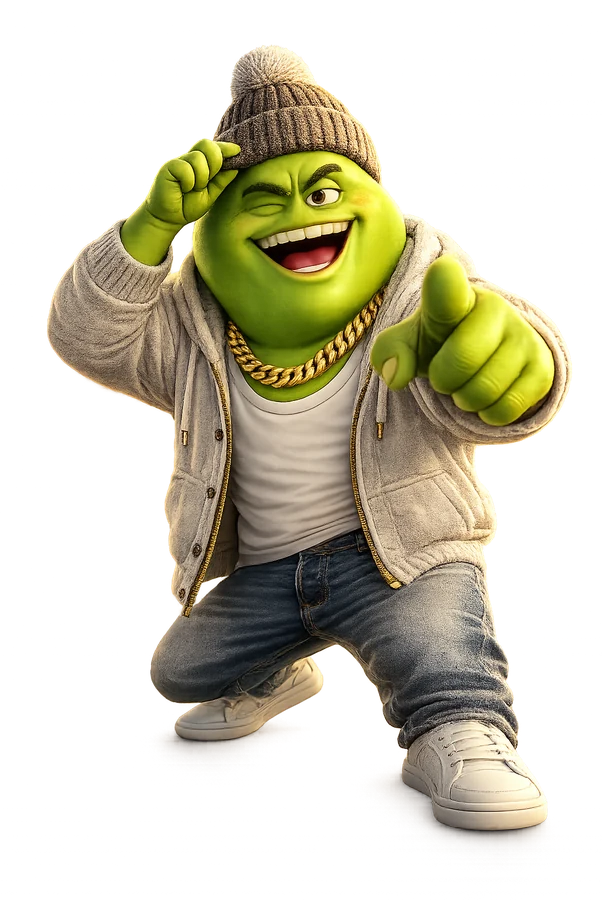
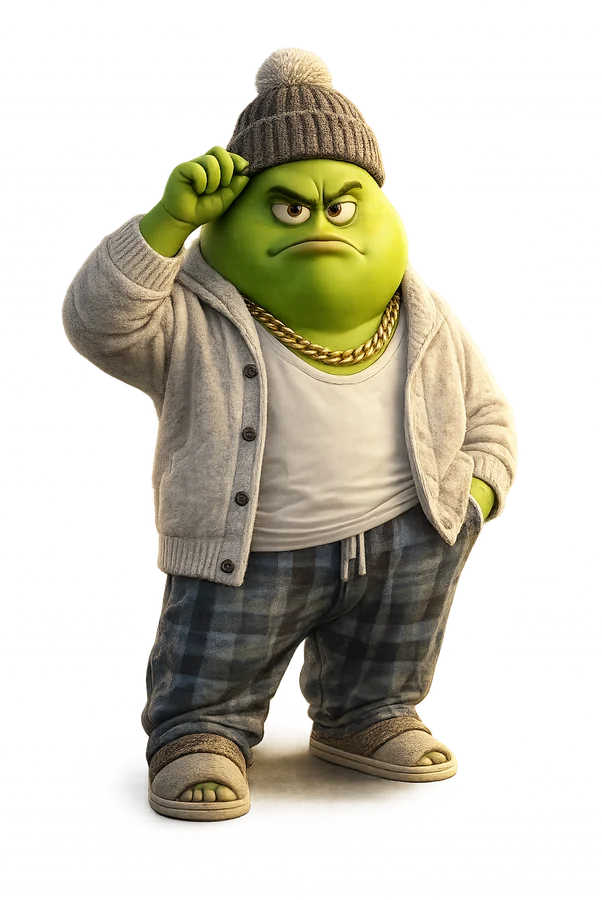
feat(ضربهزن): ده ظاهرِ کاراکتر با قوسِ «از فقر تا ثروت» — هر ۵ لول یکی
═══════════════════════════════════════════════════════════════════════════
خواستهٔ مالک
═══════════════════════════════════════════════════════════════════════════

«۵ تا عکس و ژست عکاسی دیگه از کاراکتر ضربه زن بساز که هر ۵ لول ازین به
بعد شخصیت تغییر ژست و لباس عوض شه. کاراکتر اول فقیر باشه بعد کم کم
کلاس کاری و لباساش بهتر شن».

═══════════════════════════════════════════════════════════════════════════
پنج ژستِ جدید
═══════════════════════════════════════════════════════════════════════════

با «تولید عکس به عکس» ساخته شدند: خودِ اسکینهای موجود بهعنوان مرجع
داده شدند تا هویتِ کاراکتر (سرِ گلابیشکل، ابروهای پرپشت، چشمهای ریز،
تناسبِ بدن، سبزِ برند) موبهمو حفظ شود و فقط لباس و ژست عوض شود.

  • کارگرِ ساختمانی — اورکالِ لکهدار، کلاه ایمنی، عرقِ پیشانی
  • پیراهن و جلیقه — دستبهسینه، اولین نشانهٔ نظم
  • بمبرِ برند — عینکِ روی پیشانی، ساعتِ طلا، ژستِ «پول»
  • کتِ مخملیِ زرشکی — دستمالِ جیبی، ساعتِ گران
  • تاکسیدوی طلایی — دستهای باز، انگشترِ الماس، پیروزی

⚠ یک تلاش دور ریخته شد: نسخهٔ اولِ «پیک موتوری» چهرهٔ کاراکتر را عوض
   کرده بود (چشمهای گرد و لبخندِ دوستانه بهجای نگاهِ جدی) و متنِ
   ناخواسته روی پیشبند نوشته بود. با دادنِ **دو** مرجع (فقیرترین و
   ثروتمندترین) و تأکیدِ صریح بر حفظِ اجزای چهره، درست شد.

═══════════════════════════════════════════════════════════════════════════
برشِ پسزمینه — سه بار تکرار تا درست شد
═══════════════════════════════════════════════════════════════════════════

تصاویرِ تولیدی پسزمینهٔ سفیدِ مات دارند ولی اسکینهای موجود شفافاند.
[…]

diff --git a/mobile/test/tap_game_test.dart b/mobile/test/tap_game_test.dart
@@ -67,74 +67,97 @@ void main() {
   });
 
   group('skins', () {
-    test('the character changes ON level 10, 20, 30, 40', () {
-      // Levels 1-9 are the first character; arriving AT level 10 already
-      // shows the second. A previous version changed one level late.
-      for (var lv = 1; lv <= 9; lv++) {
-        expect(config.skinForLevel(lv), config.skins[0], reason: 'level $lv');
-      }
-      for (var lv = 10; lv <= 19; lv++) {
-        expect(config.skinForLevel(lv), config.skins[1], reason: 'level $lv');
-      }
-      for (var lv = 20; lv <= 29; lv++) {
-        expect(config.skinForLevel(lv), config.skins[2], reason: 'level $lv');
-      }
-      for (var lv = 30; lv <= 39; lv++) {
-        expect(config.skinForLevel(lv), config.skins[3], reason: 'level $lv');
-      }
-      for (var lv = 40; lv <= 50; lv++) {
-        expect(config.skinForLevel(lv), config.skins[4], reason: 'level $lv');
+    // ⚠ این تستها عمداً هیچ عددی را هاردکد نمیکنند.
+    //
+    // نسخهٔ قبلی «۱۰»، «۴ تغییر» و «۵ اسکین» را مستقیم نوشته بود. وقتی
+    // مالک خواست ظاهر هر ۵ لول عوض شود (و ۱۰ ظاهر شد)، پنج تست شکستند
+    // بدون اینکه هیچ باگی وجود داشته باشد — یعنی تستها داشتند یک
+    // **تصمیمِ محصول** را قفل میکردند، نه یک **قاعده** را.
+    //
+    // حالا هر ادعا از `config.levelsPerSkin` و `config.skins.length`
+    // مشتق میشود. اگر فردا هر ۳ لول شد، همینها بدون تغییر سبز میمانند
+    // و فقط اگر منطق واقعاً بشکند قرمز میشوند.
+
+    test('ظاهر دقیقاً روی مضربهای levelsPerSkin عوض میشود', () {
+      final n = config.levelsPerSkin;
+      for (var lv = 1; lv <= config.levelCount; lv++) {
+        final expected =
+            (lv ~/ n).clamp(0, config.skins.length - 1);
+        expect(config.skinIndexForLevel(lv), expected, reason: 'لول $lv');
       }
     });
 
-    test('exactly four changes across the whole game', () {
+    test('لولهای قبل از اولین مرز، ظاهر اول را دارند', () {
+      for (var lv = 1; lv < config.levelsPerSkin; lv++) {
+        expect(config.skinForLevel(lv), config.skins[0], reason: 'لول $lv');
+      }
+      // و دقیقاً روی مرز عوض میشود، نه یکی دیرتر.
+      expect(config.skinForLevel(config.levelsPerSkin), config.skins[1]);
+    });
+
+    test('تعداد تغییرها با تعداد ظاهرهای قابلدسترس میخواند', () {
       var changes = 0;
       for (var lv = 2; lv <= config.levelCount; lv++) {
         if (config.skinIndexForLevel(lv) != config.skinIndexForLevel(lv - 1)) {
           changes++;
           expect(lv % config.levelsPerSkin, 0,
-              reason: 'a change must land on a multiple of 10, got $lv');
+              reason: 'تغییر باید روی مضربِ ${config.levelsPerSkin} بیفتد، '
+                  'ولی روی $lv افتاد');
         }
       }
-      expect(changes, 4);
+      final reachable =
+          (config.levelCount ~/ config.levelsPerSkin) + 1;
+      final expected =
+          (reachable > config.skins.length ? config.skins.length : reachable) - 1;
+      expect(changes, expected);
     });
 
-    test('the skin index never goes backwards', () {
+    test('اندیس ظاهر هرگز عقب نمیرود', () {
       for (var lv = 2; lv <= config.levelCount; lv++) {
         expect(config.skinIndexForLevel(lv),
             greaterThanOrEqualTo(config.skinIndexForLevel(lv - 1)));
       }
     });
 
-    test('all five skins are reachable within 50 levels', () {
+    test('همهٔ ظاهرها در طول بازی دیده میشوند', () {
+      // اگر ظاهری هرگز دیده نشود یعنی داراییِ مرده در اپ داریم: حجمِ
+      // APK را بالا میبرد و هیچکس نمیبیندش.
       final seen = <String>{};
-      for (var lv = 1; lv <= 50; lv++) {
+      for (var lv = 1; lv <= config.levelCount; lv++) {
         seen.add(config.skinForLevel(lv));
       }
-      expect(seen.length, 5);
+      expect(seen.length, config.skins.length,
+          reason: 'با ${config.levelCount} لول و هر ${config.levelsPerSkin} '
+              'لول یک ظاهر، همهٔ ${config.skins.length} ظاهر باید برسند');
     });
 
-    test('a level beyond the last skin clamps instead of crashing', () {
+    test('همهٔ فایلهای ظاهر مسیرِ یکتا دارند', () {
+      // کپیِ تصادفیِ یک مسیر یعنی کاربر دو بار پشت سر هم همان لباس را
+      // میبیند و فکر میکند ارتقا نگرفته.
+      expect(config.skins.toSet().length, config.skins.length);
+    });
+
+    test('لولِ بیرون از بازه clamp میشود و کرش نمیدهد', () {
       expect(config.skinForLevel(999), config.skins.last);
       expect(config.skinForLevel(0), config.skins.first);
       expect(config.skinForLevel(-5), config.skins.first);
-      // Level 51 (the "finished" sentinel) must still resolve to artwork.
       expect(config.skinForLevel(config.levelCount + 1), config.skins.last);
     });
 
-    test('skin count can change without breaking the lookup', () {
+    test('تعداد ظاهر میتواند عوض شود بدون شکستنِ جستوجو', () {
       final three = config.copyWith(skins: const ['a', 'b', 'c']);
+      final n = three.levelsPerSkin;
       expect(three.skinForLevel(1), 'a');
-      expect(three.skinForLevel(10), 'b');
-      expect(three.skinForLevel(20), 'c');
-      expect(three.skinForLevel(50), 'c'); // clamped
+      expect(three.skinForLevel(n), 'b');
+      expect(three.skinForLevel(n * 2), 'c');
+      expect(three.skinForLevel(config.levelCount), 'c'); // clamp
     });
 
-    test('levelsPerSkin is tunable', () {
-      final every5 = config.copyWith(levelsPerSkin: 5);
-      expect(every5.skinIndexForLevel(4), 0);
-      expect(every5.skinIndexForLevel(5), 1);
-      expect(every5.skinIndexForLevel(10), 2);
+    test('levelsPerSkin قابل تنظیم است', () {
+      final every3 = config.copyWith(levelsPerSkin: 3);
+      expect(every3.skinIndexForLevel(2), 0);
+      expect(every3.skinIndexForLevel(3), 1);
+      expect(every3.skinIndexForLevel(6), 2);
     });
   });
 
@@ -355,8 +378,9 @@ void main() {
 
     test('levelsUntilNextSkin counts down to the boundary', () async {
       final engine = await freshEngine();
-      // Level 1 with the next change AT level 10 => 9 levels to go.
-      expect(engine.levelsUntilNextSkin, 9);
+      // از لول ۱ تا اولین مرز. عدد از config مشتق میشود نه هاردکد،
+      // وگرنه هر بار که levelsPerSkin عوض شود این تست بیدلیل میشکند.
+      expect(engine.levelsUntilNextSkin, config.levelsPerSkin - 1);
       engine.dispose();
     });
 
@@ -405,25 +429,30 @@ void main() {
     });
 
     test('level-up carry-over is exact across a skin boundary', () async {
-      // Level 9 -> 10 is both a level-up AND a character change, the busiest
-      // moment in the game: it forces an extra flush while state is moving.
-      SharedPreferences.setMockInitialValues({
-        'boundary': '{"level":9,"taps":0,"totalTaps":0}',
-      });
-      // levelsPerDay بالا: این تست مرز شخصیت را میسنجد، نه سقف روزانه.
+      // مرزِ اولین تغییرِ شخصیت همزمان یک level-up است — شلوغترین لحظهٔ
+      // بازی: وسطِ جابهجاییِ state یک flush اضافه هم اجرا میشود.
+      //
+      // ⚠ عددِ مرز از خودِ config مشتق میشود. نسخهٔ قبلی «۹ → ۱۰» را
+      //    هاردکد کرده بود و وقتی levelsPerSkin از ۱۰ به ۵ رسید شکست،
+      //    بدون اینکه هیچ باگی وجود داشته باشد.
       const cfg = TapGameConfig(
           growthFactor: 1.0, totalPoints: 50, levelsPerDay: 99);
+      final boundary = cfg.levelsPerSkin;      // اولین لولی که ظاهر عوض میشود
+      final before = boundary - 1;
+      SharedPreferences.setMockInitialValues({
+        'boundary': '{"level":$before,"taps":0,"totalTaps":0}',
+      });
       final engine = TapEngine(config: cfg, storage: TapStorage(key: 'boundary'));
       await engine.init();
-      expect(cfg.skinIndexForLevel(9), 0);
+      expect(cfg.skinIndexForLevel(before), 0);
 
       // هر لول ۱ امتیاز (۵۰ امتیاز ÷ ۵۰ لول)، پس یک ضربه یک لول.
       engine.tap();
       await Future<void>.delayed(const Duration(milliseconds: 60));
 
-      expect(engine.level, 10);
+      expect(engine.level, boundary);
       expect(engine.taps, 0);
-      // The character must have changed exactly here.
+      // شخصیت باید دقیقاً همینجا عوض شده باشد.
       expect(cfg.skinIndexForLevel(engine.level), 1);
       expect(engine.skin, cfg.skins[1]);
       engine.dispose();

diff --git a/mobile/lib/screens/user/games/tap/tap_config.dart b/mobile/lib/screens/user/games/tap/tap_config.dart
@@ -16,7 +16,7 @@ class TapGameConfig {
     this.totalPoints = 50000,
     this.growthFactor = 1.05,
     this.skins = defaultSkins,
-    this.levelsPerSkin = 10,
+    this.levelsPerSkin = 5,
     this.levelsPerDay = 2,
     this.maxTapsPerSecond = 12,
     this.burstWindow = const Duration(seconds: 1),
@@ -60,7 +60,11 @@ class TapGameConfig {
   /// `levelCount / levelsPerSkin` — the lookup clamps.
   final List<String> skins;
 
-  /// A new skin unlocks every N levels (10 => levels 1-10, 11-20, ...).
+  /// هر N لول یک ظاهرِ جدید (۵ ⇒ لول ۱-۴ ظاهر اول، لول ۵ ظاهر دوم، …).
+  ///
+  /// از ۱۰ به ۵ کم شد: با ۵۰ لول و ۱۰ ظاهر، کاربر ده بار پاداشِ دیداری
+  /// میگیرد بهجای پنج بار. تغییرِ ظاهر تنها بازخوردِ بلندمدتِ این بازی
+  /// است و دو برابر شدنش مستقیماً یعنی دو برابر انگیزهٔ ادامه دادن.
   final int levelsPerSkin;
 
   // ── anti-cheat (client side) ─────────────────────────────────────────────
@@ -86,12 +90,43 @@ class TapGameConfig {
   /// Safety valve — flush early if this many taps pile up before the timer.
   final int maxBatchTaps;
 
+  /// ده مرحلهٔ ظاهریِ کاراکتر — قوسِ «از فقر تا ثروت».
+  ///
+  /// ═══════════════════════════════════════════════════════════════════════
+  /// چرا ترتیب دقیقاً همین است
+  /// ═══════════════════════════════════════════════════════════════════════
+  ///
+  /// خواستهٔ مالک: «کاراکتر اول فقیر باشه بعد کم کم کلاس کاری و لباساش
+  /// بهتر شن»، و تغییر هر ۵ لول بهجای هر ۱۰ لول.
+  ///
+  /// هر پله باید از پلهٔ قبلی **در یک نگاه** ثروتمندتر دیده شود، وگرنه
+  /// حسِ پیشرفت از بین میرود. ترتیب بر پایهٔ سه نشانه چیده شده: جنسِ
+  /// لباس، تمیزی/کهنگی، و مقدارِ طلا.
+  ///
+  ///   ۱  پیژامهٔ کهنه و دمپایی      → بیکار
+  ///   ۲  اورکالِ کارگری و کلاه ایمنی → اولین کار
+  ///   ۳  ژاکتِ کهنه و شلوار چهارخانه → کارگرِ ثابت
+  ///   ۴  هودی و جین و کتانی          → درآمدِ منظم
+  ///   ۵  پیراهن و جلیقه              → کارمند
+  ///   ۶  ورزشکارِ حرفهای            → سرمایهگذاری روی خود
+  ///   ۷  بمبرِ برند و ساعتِ طلا       → کاسبِ موفق
+  ///   ۸  کتِ مخملیِ زرشکی            → تاجر
+  ///   ۹  کتوشلوارِ مشکیِ رسمی        → رئیس
+  ///   ۱۰ تاکسیدوی طلایی و جواهر      → میلیاردر
+  ///
+  /// ⚠ اگر روزی این فهرست کوتاهتر شد، `skinIndexForLevel` خودش clamp
+  ///    میکند و کرش نمیدهد — ولی چند لولِ آخر ظاهرِ تکراری میگیرند.
   static const List<String> defaultSkins = [
     'assets/games/tap/skin_1.webp',
     'assets/games/tap/skin_2.webp',
     'assets/games/tap/skin_3.webp',
     'assets/games/tap/skin_4.webp',
     'assets/games/tap/skin_5.webp',
+    'assets/games/tap/skin_6.webp',
+    'assets/games/tap/skin_7.webp',
+    'assets/games/tap/skin_8.webp',
+    'assets/games/tap/skin_9.webp',
+    'assets/games/tap/skin_10.webp',
   ];
 
   /// Taps needed to clear [level] (1-based).
@@ -190,8 +225,8 @@ class TapGameConfig {
     return sum + inside;
   }
 
-  /// Artwork for [level], clamped to the available skins so level 50 with
-  /// 5 skins still resolves.
+  /// Artwork for [level], clamped to the available skins so a level beyond
+  /// the last skin still resolves instead of throwing.
   String skinForLevel(int level) {
     if (skins.isEmpty) return '';
     return skins[skinIndexForLevel(level)];
@@ -199,10 +234,10 @@ class TapGameConfig {
 
   /// 0-based skin index for [level].
   ///
-  /// The character changes **on arrival at** level 10, 20, 30, 40 — so
-  /// levels 1-9 use skin 1, level 10 is already skin 2, and so on. An
+  /// The character changes **on arrival at** level 5, 10, 15, … — so
+  /// levels 1-4 use skin 1, level 5 is already skin 2, and so on. An
   /// earlier version divided `(level - 1)`, which pushed every change one
-  /// level late (skin 2 only appeared at level 11).
+  /// level late (skin 2 only appeared at level 6).
   int skinIndexForLevel(int level) {
     if (skins.isEmpty) return 0;
     if (level < levelsPerSkin) return 0;

diff --git a/mobile/test/tap_skins_assets_test.dart b/mobile/test/tap_skins_assets_test.dart
@@ -1,0 +1,64 @@
+// وجودِ فیزیکیِ فایلهای ظاهرِ کاراکترِ ضربهزن.
+//
+// ═══════════════════════════════════════════════════════════════════════════
+// چرا این تست
+// ═══════════════════════════════════════════════════════════════════════════
+//
+// `defaultSkins` فقط یک فهرست از **رشته** است. اگر مسیری غلط تایپ شود یا
+// فایلی در `pubspec.yaml` اعلام نشود، دارت هیچ خطایی نمیدهد — کامپایل
+// میشود، تستهای منطقی سبز میمانند، و کاربر در لولِ فلان بهجای شخصیت
+// یک ایموجیِ جایگزین میبیند (`errorBuilder` عمداً کرش نمیدهد، پس حتی
+// در لاگ هم چیزی پیدا نیست).
+//
+// این دقیقاً همان کلاس باگی است که فقط در دستِ کاربر دیده میشود. یک
+// بررسیِ ساده روی فایلسیستم جلویش را میگیرد.
+import 'dart:io';
+
+import 'package:flutter_test/flutter_test.dart';
+
+import 'package:ghelgheli_mobile/screens/user/games/tap/tap_config.dart';
+
+void main() {
+  const cfg = TapGameConfig();
+
+  test('هر مسیرِ ظاهر واقعاً روی دیسک وجود دارد', () {
+    for (final path in cfg.skins) {
+      expect(File(path).existsSync(), isTrue,
+          reason: 'فایلِ «$path» در پروژه نیست — کاربر بهجای شخصیت '
+              'ایموجیِ جایگزین میبیند و هیچ خطایی هم ثبت نمیشود');
+    }
+  });
+
+  test('پوشهٔ دارایی در pubspec اعلام شده', () {
+    // بدون این خط، فایلها در APK بستهبندی نمیشوند حتی اگر روی دیسک
+    // باشند — یعنی تستِ بالا سبز است ولی اپِ نصبشده خراب.
+    final pubspec = File('pubspec.yaml').readAsStringSync();
+    expect(pubspec.contains('assets/games/tap/'), isTrue,
+        reason: 'assets/games/tap/ در pubspec.yaml اعلام نشده');
+  });
+
+  test('هیچ فایلِ ظاهرِ بلااستفادهای در پوشه نمانده', () {
+    // داراییِ مرده حجمِ APK را بیدلیل بالا میبرد. اگر روزی ظاهری از
+    // فهرست حذف شد ولی فایلش ماند، اینجا معلوم میشود.
+    final dir = Directory('assets/games/tap');
+    final onDisk = dir
+        .listSync()
+        .whereType<File>()
+        .map((f) => f.path.replaceAll('\\', '/'))
+        .where((p) => p.endsWith('.webp'))
+        .toSet();
+    final used = cfg.skins.toSet();
+    expect(onDisk.difference(used), isEmpty,
+        reason: 'فایلهای زیر در هیچ لولی استفاده نمیشوند');
+  });
+
+  test('اندازهٔ هر فایل معقول است', () {
+    // فایلِ صفربایتی یعنی کپیِ نصفهکاره؛ فایلِ خیلی بزرگ یعنی کسی
+    // نسخهٔ فشردهنشده را جایگزین کرده و حافظهٔ گوشیِ ضعیف را میبلعد.
+    for (final path in cfg.skins) {
+      final bytes = File(path).lengthSync();
+      expect(bytes, greaterThan(5 * 1024), reason: '$path خیلی کوچک است');
+      expect(bytes, lessThan(400 * 1024), reason: '$path خیلی بزرگ است');
+    }
+  });
+}
